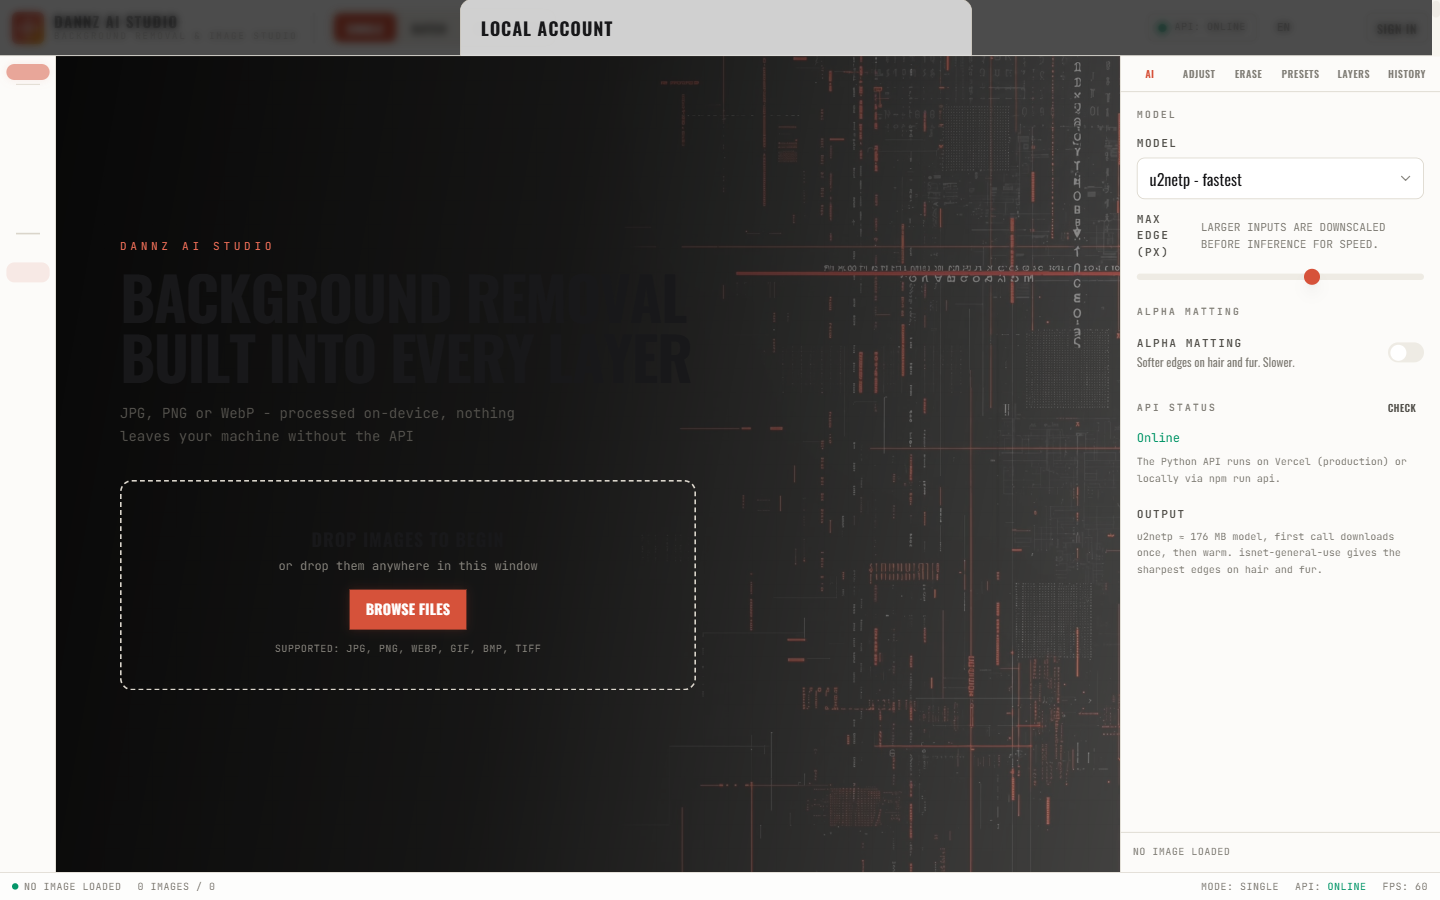
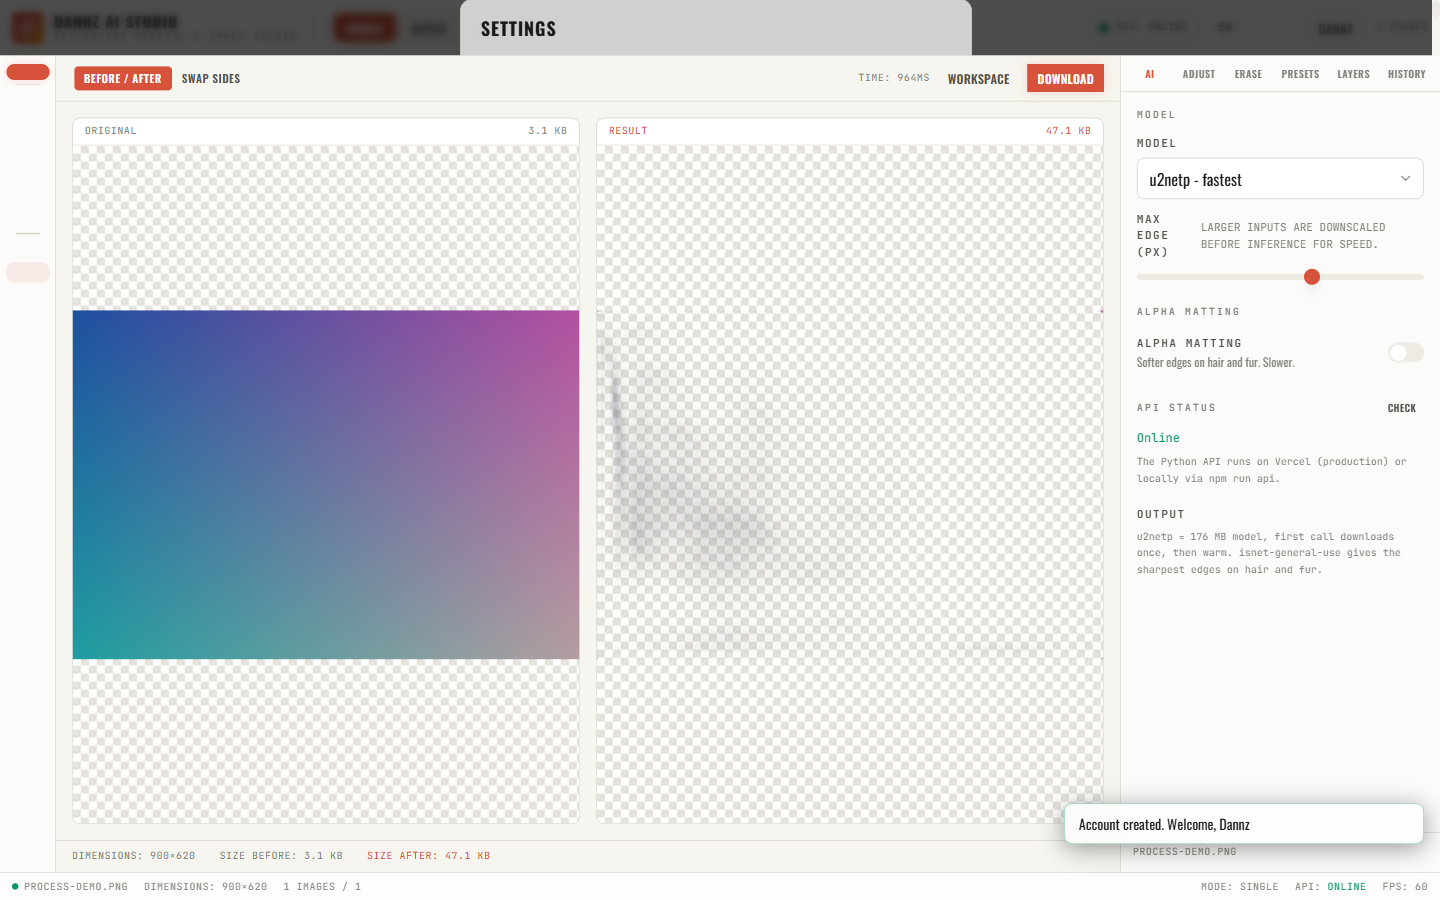
update v2

diff --git a/dannz-ai-studio/README.md b/dannz-ai-studio/README.md
@@ -219,23 +219,23 @@ Python endpoints; point the frontend at them by changing `API_BASE` in
 
 ## Screenshots
 
-> _Run `npm run dev`, then capture the views below and drop the PNGs into `docs/`._
+All captures below are from the running app (dark theme unless noted).
 
-| View | File | What to capture |
+| View | Preview | What it shows |
 |---|---|---|
-| **Landing / empty state** | `docs/01-landing.png` | The aerial-video hero with the condensed headline and drag-drop panel. |
-| **Single comparison (side)** | `docs/02-compare-side.png` | Original vs cutout in the two-up grid with the size/time stats strip. |
-| **Single comparison (slider)** | `docs/03-compare-slider.png` | The draggable before/after divider mid-sweep. |
-| **AI panel** | `docs/04-ai-panel.png` | Model picker, max-edge slider, alpha matting expanded, API status dot. |
-| **Adjust panel** | `docs/05-adjust-panel.png` | Brightness/contrast/saturation/hue/blur/sharpen + background + format + quality. |
-| **Presets** | `docs/06-presets.png` | The five preset cards with their parameter chips. |
-| **Batch queue** | `docs/07-batch.png` | Multi-file queue with mixed `done` / `pending` statuses. |
-| **Export modal** | `docs/08-export.png` | Format/quality/scale/background controls and the checkerboard preview. |
-| **Region erase** | `docs/08b-region-erase.png` | Rectangles drawn over leftover background in the Erase panel. |
-| **Workspace canvas** | `docs/09-workspace.png` | Fabric.js canvas with the floating toolbar and zoom readout. |
-| **Processing overlay** | `docs/10-processing.png` | Neural Scan with progress bar and cancel button. |
-| **Light theme** | `docs/11-light.png` | The cream-paper light variant of any view. |
-| **Settings / account** | `docs/12-settings.png` | Theme, language, sync export, clear data, about block. |
+| **Landing / empty state** | ![Landing](docs/01-landing.png) | The atmospheric video hero with the condensed headline and drag-drop panel. |
+| **Single comparison (side-by-side)** | ![Compare side](docs/02-compare-side.png) | Original vs cutout in the two-up grid with the size/time stats strip. |
+| **Comparison (slider)** | ![Compare slider](docs/03-compare-slider.png) | The draggable before/after divider mid-sweep. |
+| **AI panel** | ![AI panel](docs/04-ai-panel.png) | Model picker, max-edge slider, alpha matting expanded, API status dot. |
+| **Adjust panel** | ![Adjust panel](docs/05-adjust-panel.png) | Brightness/contrast/saturation/hue/blur/sharpen + background + format + quality. |
+| **Presets** | ![Presets](docs/06-presets.png) | The five preset cards with their parameter chips. |
+| **Batch queue** | ![Batch](docs/07-batch.png) | Multi-file queue with per-file status chips and the ZIP action. |
+| **Export modal** | ![Export](docs/08-export.png) | Format/quality/scale/background controls and the checkerboard preview. |
+| **Region erase** | ![Region erase](docs/08b-region-erase.png) | The Erase panel where rectangles are drawn over leftover background. |
+| **Workspace canvas** | ![Workspace](docs/09-workspace.png) | Fabric.js canvas with the floating toolbar and zoom readout. |
+| **Processing overlay** | ![Processing](docs/10-processing.png) | Neural Scan with the progress bar and cancel button. |
+| **Light theme** | ![Light](docs/11-light.png) | The cream-paper light variant (shown here in Vietnamese). |
+| **Settings / account** | ![Settings](docs/12-settings.png) | Theme, language, sync export, clear data, about block. |
 
 ```
 docs/
